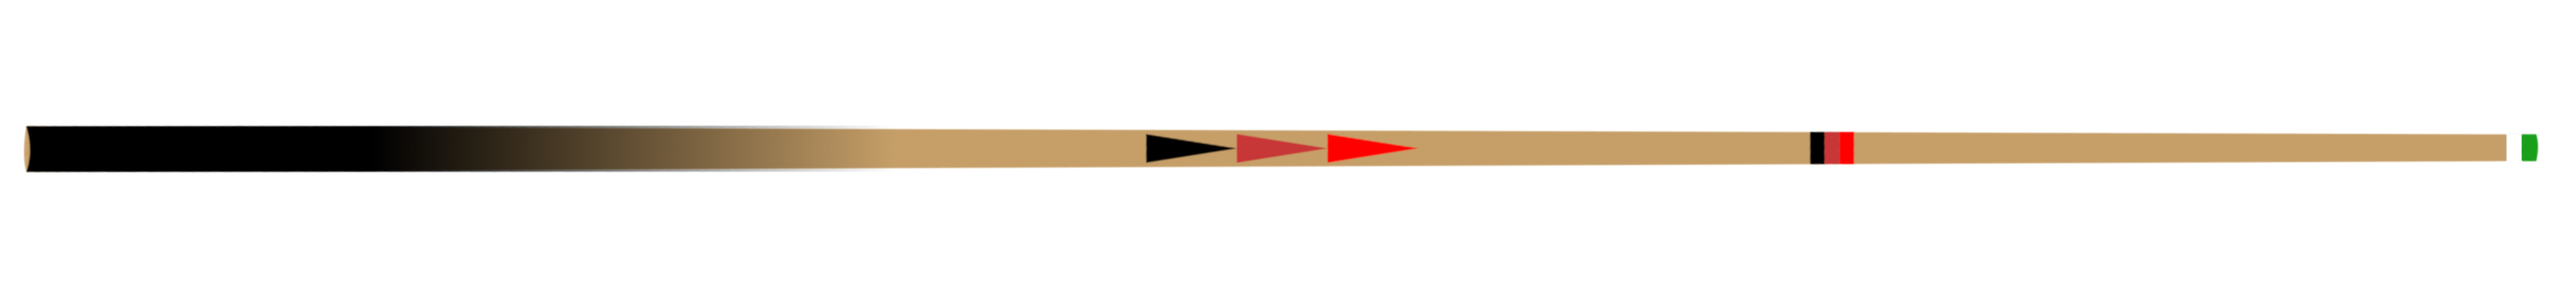
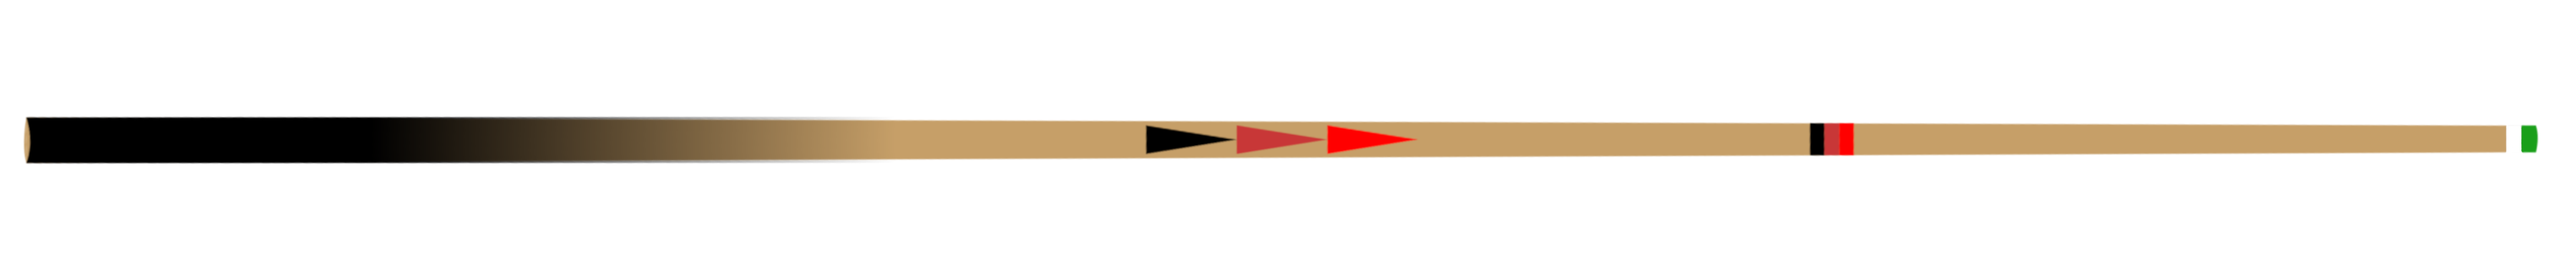
Change cue placement

Changed region(s): [[0.0, 0.4021, 0.9958, 0.6186]]

diff --git a/core/src/com/pockball/pockball/ecs/systems/CueSystem.java b/core/src/com/pockball/pockball/ecs/systems/CueSystem.java
@@ -64,7 +64,7 @@ public class CueSystem extends IteratingSystem {
         if (canShoot) {
             direction.rotation = ball.dir.angleDeg();
             Vector2 dir = new Vector2(ball.dir).nor();
-            position.position.set(ballPos.position.x - size.width - ball.radius, ballPos.position.y).sub(dir.scl(ball.power.len()));
+            position.position.set(ballPos.position.x - size.width + ball.radius - 0.01f, ballPos.position.y - 0.09f).sub(dir.scl(0.7f + ball.power.len()));
         } else if (!Context.getInstance().getState().hasAimed()) {
             position.position.set(100, 100);
         }

diff --git a/core/src/com/pockball/pockball/ecs/systems/BallSystem.java b/core/src/com/pockball/pockball/ecs/systems/BallSystem.java
@@ -71,7 +71,7 @@ public class BallSystem extends IteratingSystem {
 
                 if (!hasAimed) {
                     // If first touch, set direction
-                    ball.dir = inputInWorld.sub(origin);
+                    ball.dir = inputInWorld.sub(origin).scl(-1);
                 }
                 if (hasAimed && !justTouched) {
                     // If first touch after aim, set reference for power

diff --git a/core/src/com/pockball/pockball/ecs/entities/CueFactory.java b/core/src/com/pockball/pockball/ecs/entities/CueFactory.java
@@ -41,7 +41,7 @@ public class CueFactory {
         position.position.set(100, 100);
 
         sprite.sprite = new Sprite(new Texture("cue.png"));
-        sprite.sprite.setOrigin(size.width + 1, size.height / 2);
+        sprite.sprite.setOrigin(size.width, size.height / 2);
         sprite.sprite.setPosition(position.position.x, position.position.y);
         sprite.layer = 2;
 
